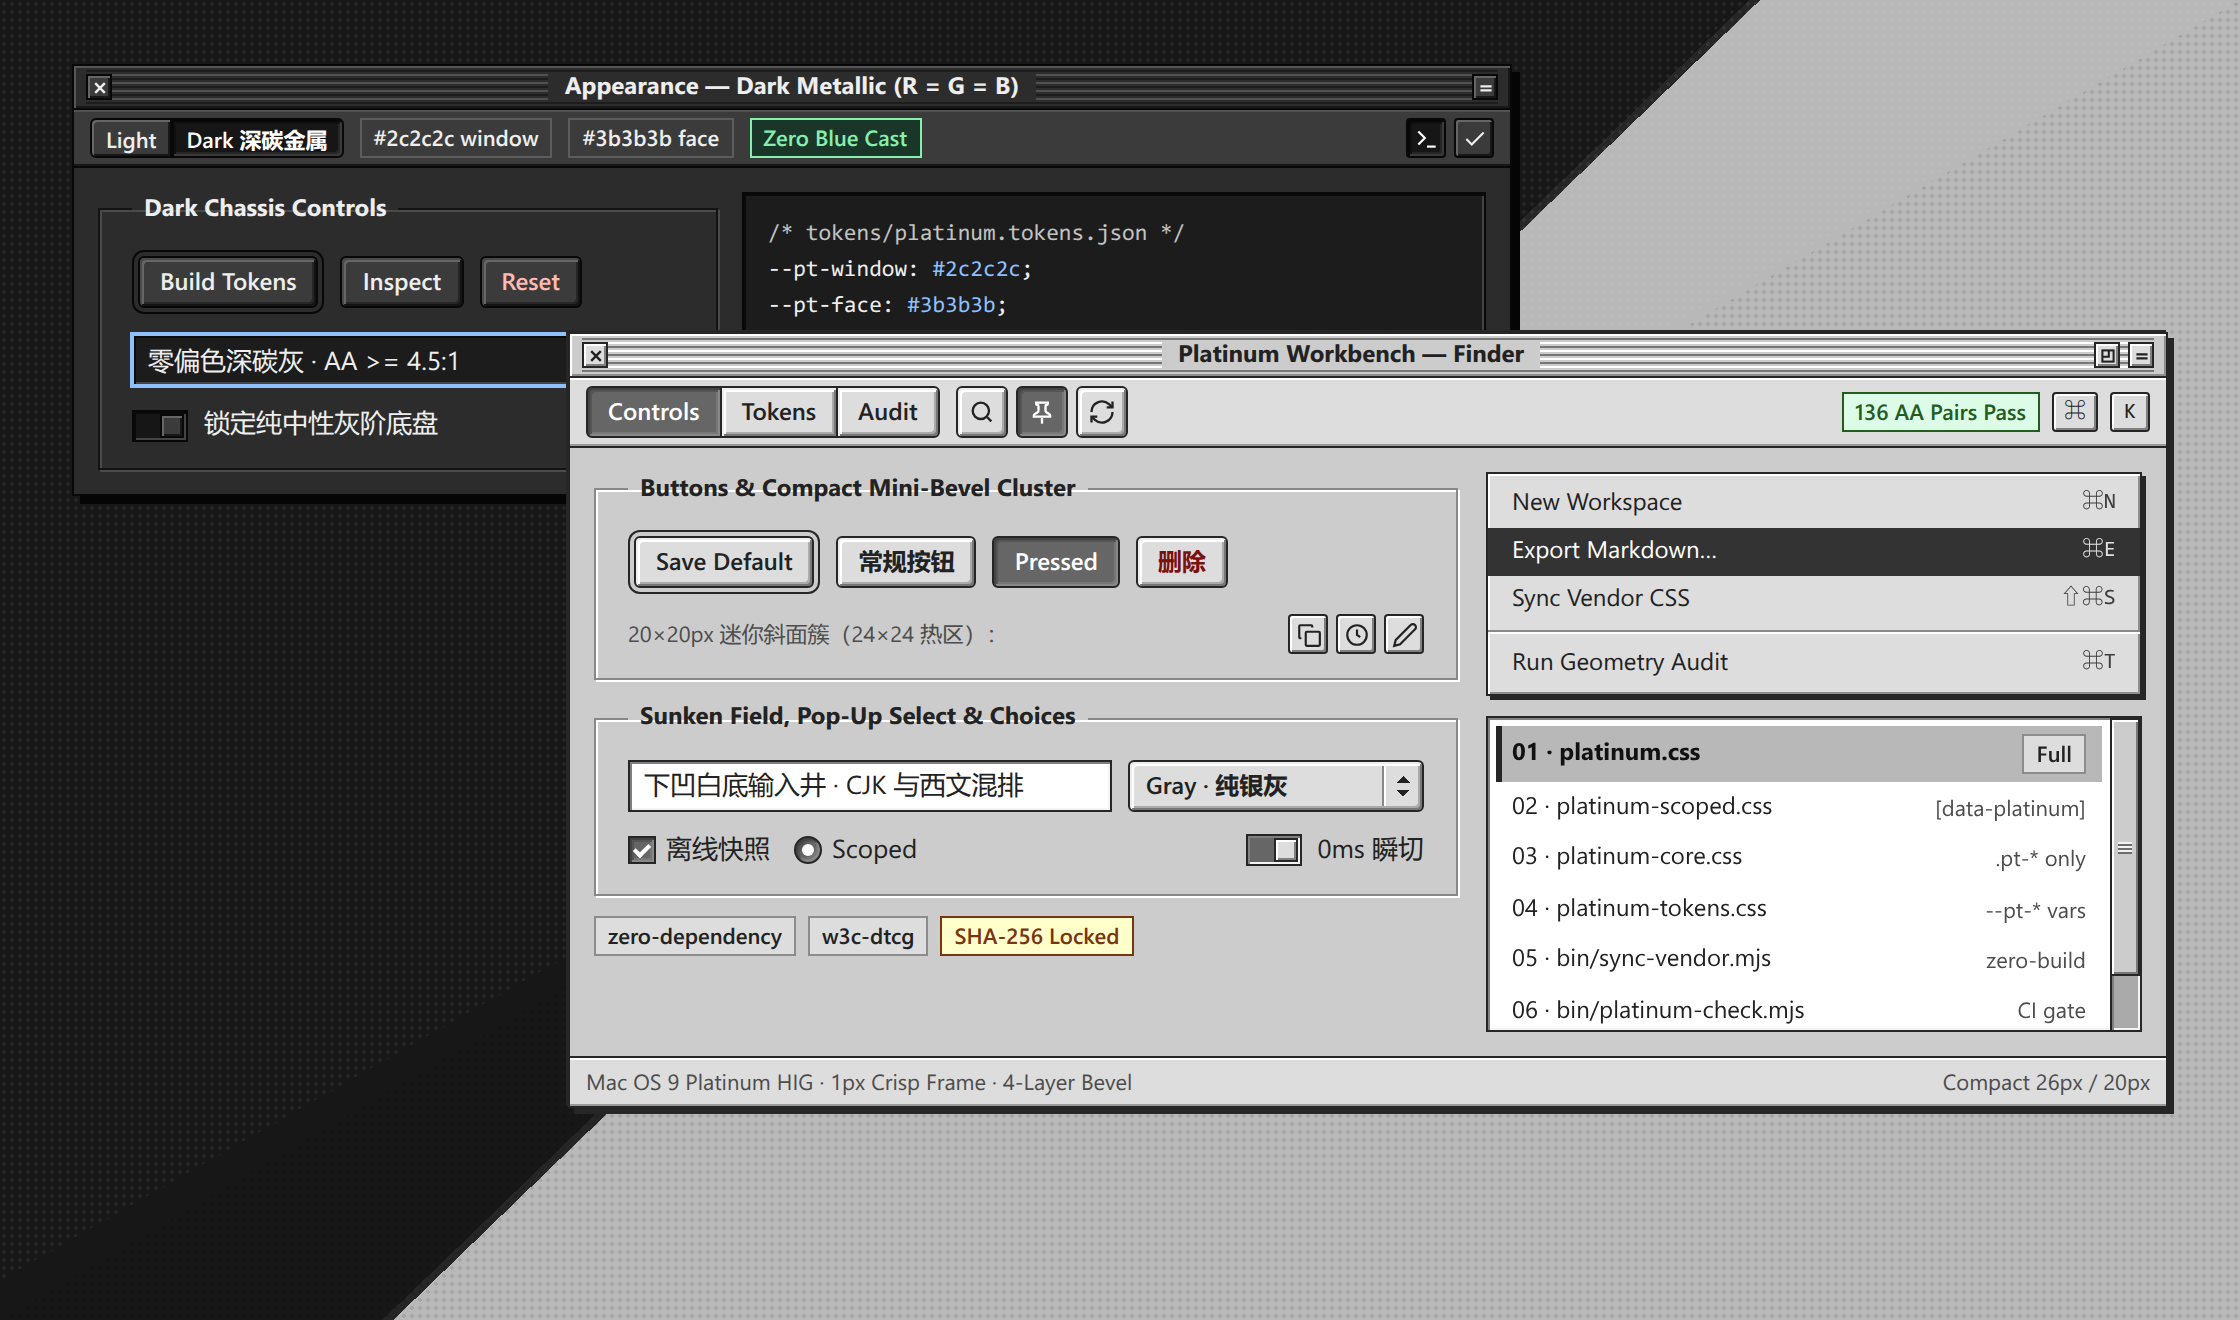
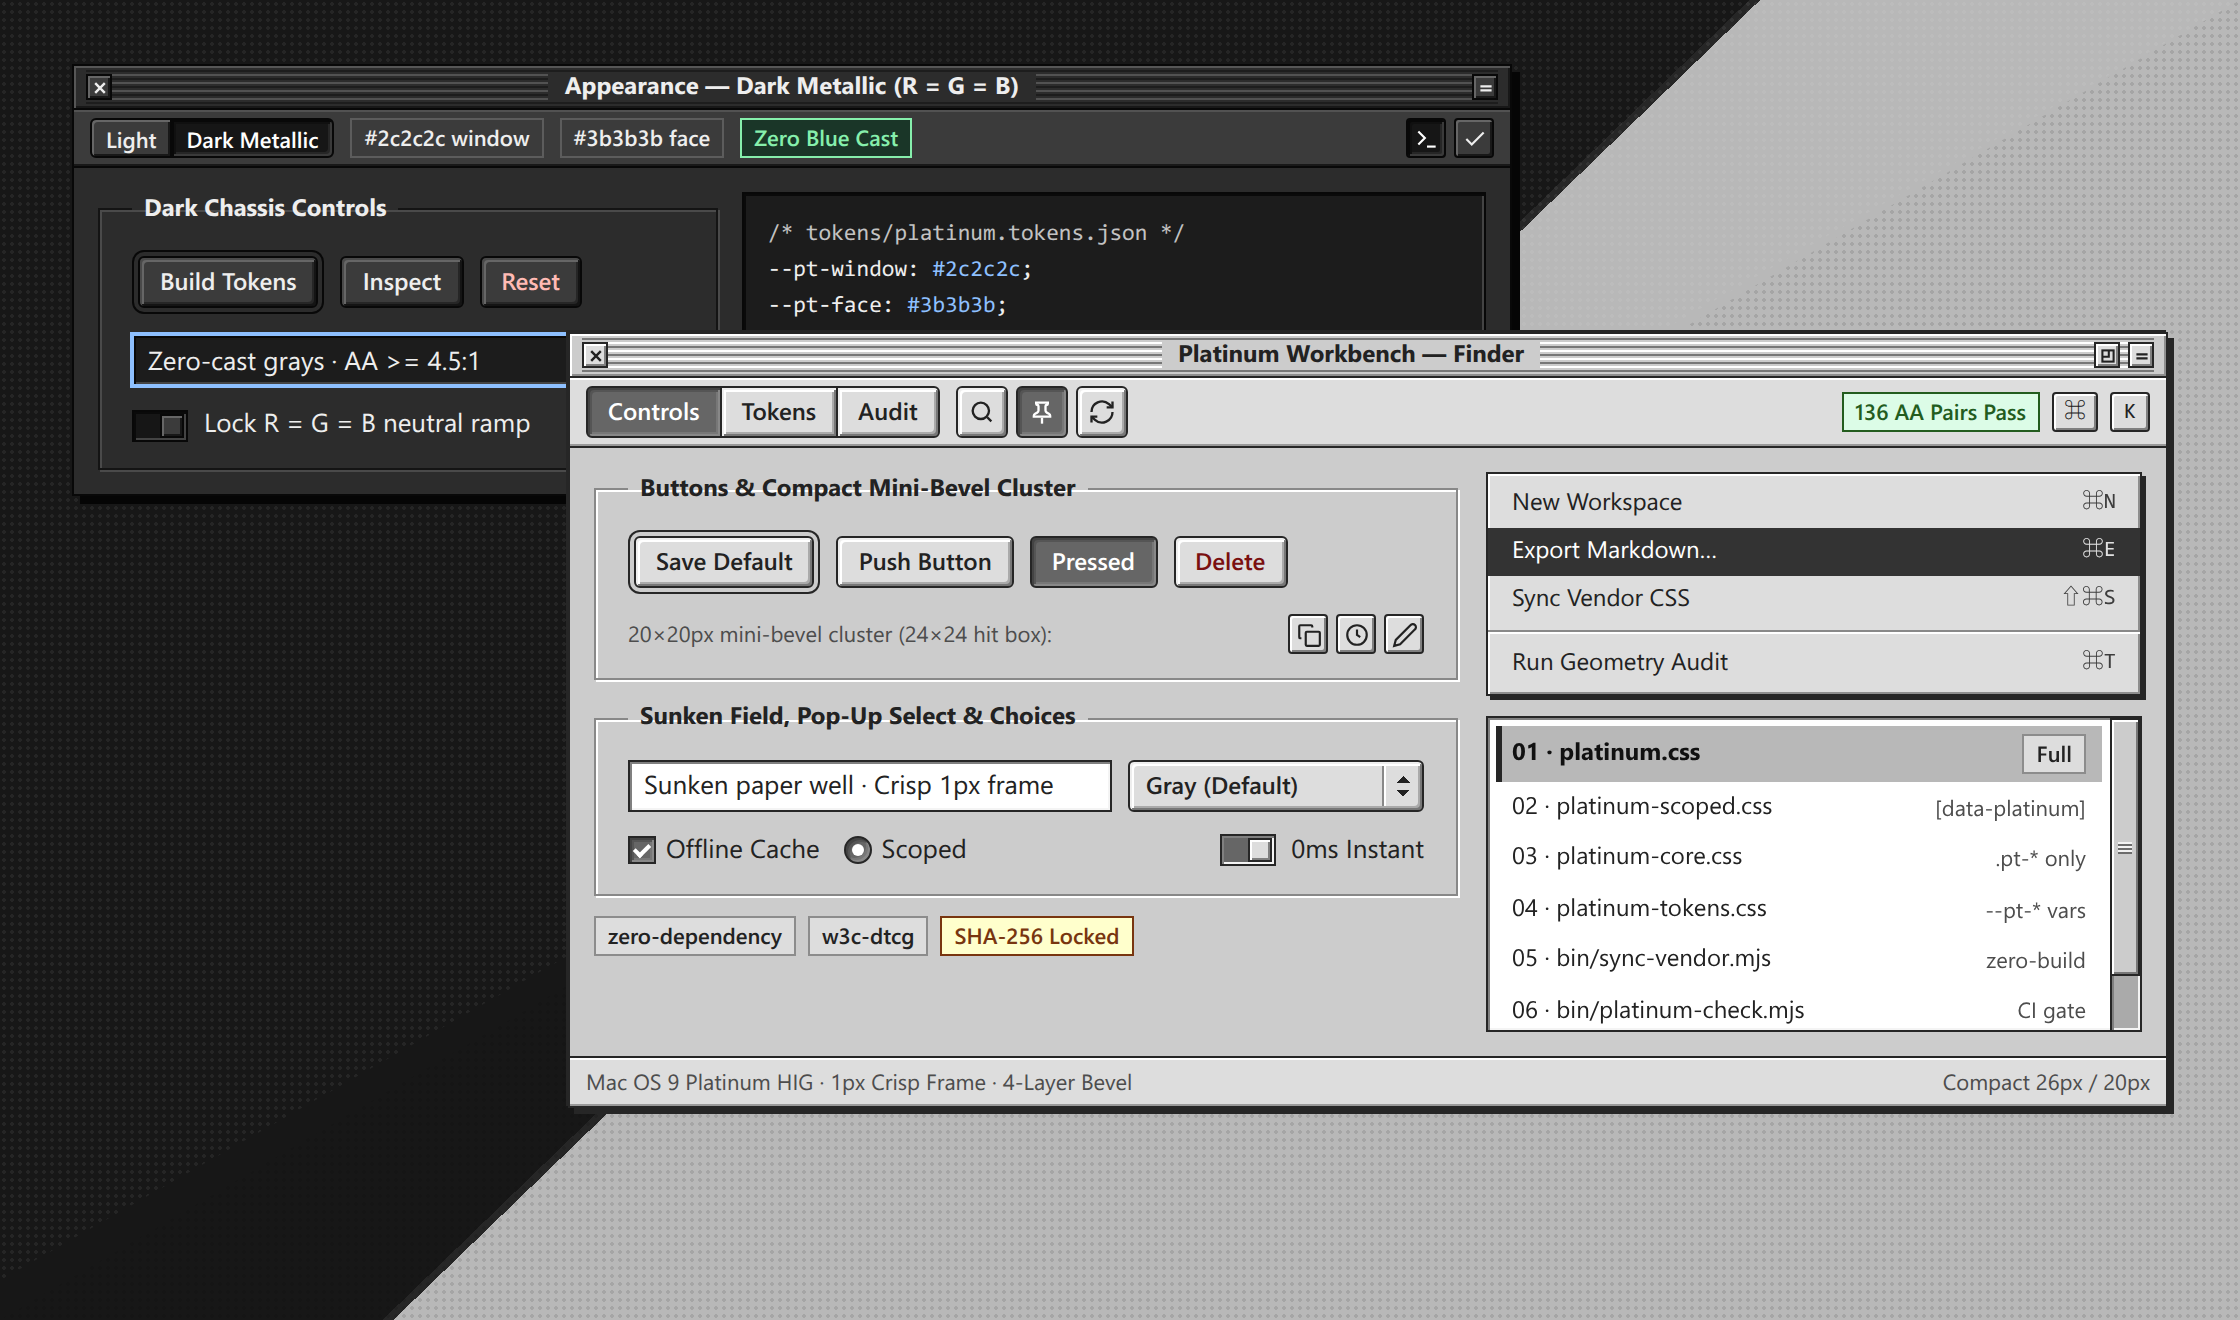
docs: make English README default and add localized zh-CN docs and shots

diff --git a/README.md b/README.md
@@ -1,76 +1,82 @@
 # Platinum UI
 
-原汁原味的 **Mac OS 9 Platinum** 跨项目设计系统：包含 W3C DTCG 设计令牌、零框架 JS 的模块化纯 CSS 部件库、交互式静态预览画廊、可复用的静态/Chromium 几何与对比度体检门禁，以及配套的全局 AI Agent Skill。
+**English** | [简体中文](README.zh-CN.md)
 
-![Platinum UI 浅色铂金银与深色零偏色碳黑金属桌面工作台实测渲染](docs/screenshots/hero.webp)
+A cross-project **Mac OS 9 Platinum** design system: W3C DTCG design tokens, zero-framework-JS modular CSS widgets, an interactive HTML gallery, reusable static and Chromium geometry/contrast gates, and a companion global AI Agent Skill.
 
-## 特性概览
+![Platinum UI light silver and zero-cast dark metallic desktop workbench rendered from dist/platinum.css](docs/screenshots/hero.webp)
 
-- **纯正 Platinum 机械质感**：`1px` 利落黑框、`2px` 硬边投影、四层金属凹凸斜面、`2px` 水平细横纹标题条、`15px` 三横脊滚动条、HIG 双箭头弹出选择框、蚀刻凹槽分组框与 `0ms` 机械瞬切。
-- **零偏色双模底盘 + 双官方变体**：浅色铂金银（`#cccccc`/`#dddddd`）与深色零偏色碳黑金属（`R=G=B`），默认采用无紫耐看的 **`gray`** 变体（纯银灰 + 深石板蓝焦点），一行属性 `data-platinum-accent="lavender"` 即可切换经典 **`lavender`** 薰衣草变体；全象限通过 WCAG AA `>= 4.5:1` 校验。
+## Highlights
 
-![Gray 默认纯银灰变体与 Lavender 经典薰衣草变体在选区、菜单、滚动条及中性按钮上的微距对照](docs/screenshots/variants.webp)
+- **Authentic Platinum mechanics**: Crisp `1px` borders, `2px` hard drop shadows, four-layer metallic bevels, `2px` horizontal pinstripe titlebars, `15px` three-ridge scrollbars, Mac OS 9 HIG double-arrow pop-up selects, etched groove group boxes, and instant `0ms` state transitions.
+- **Zero-cast light/dark chassis and two official accent variants**: Light silver (`#cccccc`/`#dddddd`) and dark metallic grays keep strict `R=G=B` neutrality. Ships with a purple-free **`gray`** default variant (silver scrollbars, charcoal menu highlights, and slate blue focus/links) and an opt-in classic **`lavender`** variant via `data-platinum-accent="lavender"`. Every foreground/surface pair passes WCAG AA `>= 4.5:1` across all four quadrants.
 
-- **紧凑/舒适双密度与高密度长文排版**：默认 `compact`（标准控件 `26px`、次级迷你斜面图标钮 `20px` + `::before` `24×24px` 隐形热区），可选 `data-platinum-density="comfortable"`（`32px` / `24px`）；内置 `.pt-prose`、`.pt-code-window` 与 `1px` 实框表格排版。
-- **双通道零痛点接入**：打包器项目（Electron / Vite / React / TS）直接按包导出引入；零构建项目（原生 Chrome MV3 扩展 / 静态 HTML）通过 `platinum-sync` 一键同步单文件 CSS 并写入版本与 SHA-256 防漂移锁头。
+![Side-by-side comparison of the default Gray variant and opt-in Lavender variant across selection, menus, scrollbars, and neutral buttons](docs/screenshots/variants.webp)
 
-![SimpleText 技术长文代码小窗与 Compact / Comfortable 双密度阶梯及窗口失焦态对照](docs/screenshots/prose-and-density.webp)
+- **Compact and comfortable densities, plus technical prose**: Defaults to `compact` (`26px` primary controls and `20px` mini-bevel icon buttons with `::before` `24×24px` hit areas), with opt-in `data-platinum-density="comfortable"` (`32px` / `24px`). Includes `.pt-prose`, `.pt-code-window`, and `1px` hard-bordered tables.
+- **Dual consumption channels**: Bundler projects (Electron, Vite, React, TypeScript) import CSS entrypoints via package exports; zero-build projects (MV3 Chrome extensions, static HTML) run `platinum-sync` to copy a single-file CSS bundle stamped with a version and SHA-256 drift check header.
 
-## 快速开始
+![SimpleText technical prose and code window alongside Compact, Comfortable, and inactive window states](docs/screenshots/prose-and-density.webp)
 
-### 通道 A：带打包器项目（Vite / Webpack / Electron）
+## Quick Start
 
-在 `package.json` 引用本仓库后按需引入对应入口：
+### Channel A: Bundler Projects (Vite / Webpack / Electron)
+
+Reference this package in `package.json` and import the bundle that matches your app:
 
 ```js
-// 1. 全应用独占 Platinum（含裸 <button>/<input>/<select>/<fieldset> 自动样式 + .pt-* + .pt-prose）
+// 1. Full Platinum app (styles bare <button>/<input>/<select>/<fieldset> + .pt-* + .pt-prose)
 import "platinum-ui/platinum.css";
 
-// 2. 多主题并存或局部容器隔离（仅在 [data-platinum] 内生效，不污染全局 :root）
+// 2. Multi-theme or container-isolated mode (applies only inside [data-platinum], leaving :root untouched)
 import "platinum-ui/scoped.css";
 
-// 3. 仅使用显式 .pt-* 原语类（不动任何裸 HTML 标签）
+// 3. Explicit .pt-* primitives only (leaves bare HTML elements untouched)
 import "platinum-ui/core.css";
 ```
 
-### 通道 B：零构建项目（Chrome 扩展 / 纯静态 HTML）
+### Channel B: Zero-Build Projects (Chrome Extensions / Static HTML)
 
 ```bash
-# 同步单文件 CSS 到目标目录（自动附带版本与 SHA-256 锁头）
+# Copy a single-file CSS bundle into your project with a version + SHA-256 header lock
 node bin/sync-vendor.mjs --target /path/to/your-app/vendor --bundle scoped
 
-# 在目标项目的 CI / pre-commit 中校验未被手改且版本一致
+# Verify in CI or pre-commit that the synced file matches upstream without hand-edits
 node bin/sync-vendor.mjs --target /path/to/your-app/vendor --bundle scoped --check
 ```
 
-## 本地预览与质量门禁
+## Local Preview and Quality Gates
 
-直接用浏览器打开 `gallery/index.html` 即可实时切换明暗模式、`Gray` / `Lavender` 变体、紧凑 / 舒适密度与窗口失焦状态。
+Open `gallery/index.html` in a browser to switch live between light and dark modes, `Gray` and `Lavender` variants, compact and comfortable densities, and active/inactive window states.
 
 ```bash
-npm run build                        # 从 tokens/platinum.tokens.json + src/*.css 编译 dist/*.css
-npm run verify                       # 跑构建零漂移检查 + 全象限 AA 对比度 + CSS 静态防坑门 + 单元测试
-npm run shots                        # 用 Chromium 2x 无损重生成 docs/screenshots/*.webp 实测舞台图
-node bin/platinum-check.mjs --browser               # 启动 Chromium 对画廊跑 8 象限真实图标居中与热区探针
-node bin/platinum-check.mjs --css app.css --forbid-purple   # 对外部业务 CSS 跑 Platinum 静态防坑与禁紫体检
+npm run build                        # Compile dist/*.css from tokens/platinum.tokens.json + src/*.css
+npm run verify                       # Run zero-drift build check + 4-quadrant AA + static CSS gates + unit tests
+npm run shots                        # Regenerate 2x lossless docs/screenshots/*.webp stage renders via Chromium
+node bin/platinum-check.mjs --browser               # Launch Chromium to run 8-state icon centering and hit-area probes
+node bin/platinum-check.mjs --css app.css --forbid-purple   # Audit external app CSS for Platinum traps and purple leaks
 ```
 
-## 安装全局 AI Agent Skill
+## Global AI Agent Skill
 
 ```bash
 npx skills add ./skills/platinum-ui -g -y
 ```
 
-安装后在任意新项目中对 Claude Code / Codex / Antigravity 说明「使用 `platinum-ui` 规范」，AI 将自动按目标项目技术栈接入对应 CSS 通道并执行几何与对比度验收。
+Once installed, ask Claude Code, Codex, or Antigravity to apply the `platinum-ui` specification in any project; the agent selects the matching CSS channel for your stack and runs the geometry and contrast gates.
 
-## 目录结构
+## Repository Layout
 
-- `tokens/platinum.tokens.json` — W3C DTCG 令牌唯一真源
-- `src/{core,elements,prose}.css` — 模块化源码层
-- `dist/` — 零依赖编译产物（勿手改）
-- `gallery/index.html` — 静态全组件对照画廊
-- `scripts/readme-shots.mjs` — `README.md` 2× 无损实测舞台截图生成脚本（产物位于 `docs/screenshots/`）
-- `bin/{build,sync-vendor,platinum-check}.mjs` — 构建、零构建同步与自动体检 CLI
-- `skills/platinum-ui/SKILL.md` — 跨 Agent 通用技能定义
-- `skills/platinum-ui/references/` — Electron 无边框窗口/顶层菜单、16px 像素应用图标与实战反模式参考手册
-- `DESIGN.md` — 完整视觉与工程规范说明书
+- `tokens/platinum.tokens.json` — Single source of truth for W3C DTCG tokens
+- `src/{core,elements,prose}.css` — Modular CSS source layers
+- `dist/` — Zero-dependency compiled CSS bundles (do not edit by hand)
+- `gallery/index.html` — Interactive static component gallery
+- `scripts/readme-shots.mjs` — `2×` lossless stage screenshot generator (`docs/screenshots/`)
+- `bin/{build,sync-vendor,platinum-check}.mjs` — Build, zero-build vendor sync, and automated audit CLIs
+- `skills/platinum-ui/SKILL.md` — Cross-agent skill definition
+- `skills/platinum-ui/references/` — Reference guides for Electron frameless windows/popup menus, `16px` pixel app icons, and CSS anti-patterns
+- `DESIGN.md` — Complete visual and engineering specification
+
+## License
+
+MIT. See [LICENSE](LICENSE).

diff --git a/README.zh-CN.md b/README.zh-CN.md
@@ -1,0 +1,82 @@
+# Platinum UI
+
+[English](README.md) | **简体中文**
+
+原汁原味的 **Mac OS 9 Platinum** 跨项目设计系统：包含 W3C DTCG 设计令牌、零框架 JS 的模块化纯 CSS 部件库、交互式静态预览画廊、可复用的静态/Chromium 几何与对比度体检门禁，以及配套的全局 AI Agent Skill。
+
+![Platinum UI 浅色铂金银与深色零偏色碳黑金属桌面工作台实测渲染](docs/screenshots/hero.zh-CN.webp)
+
+## 特性概览
+
+- **纯正 Platinum 机械质感**：`1px` 利落黑框、`2px` 硬边投影、四层金属凹凸斜面、`2px` 水平细横纹标题条、`15px` 三横脊滚动条、HIG 双箭头弹出选择框、蚀刻凹槽分组框与 `0ms` 机械瞬切。
+- **零偏色双模底盘 + 双官方变体**：浅色铂金银（`#cccccc`/`#dddddd`）与深色零偏色碳黑金属（`R=G=B`），默认采用无紫的 **`gray`** 变体（纯银灰滚动条、深炭反白菜单与深石板蓝焦点/链接），一行属性 `data-platinum-accent="lavender"` 即可切换经典 **`lavender`** 薰衣草变体；全象限前景与底面组合均通过 WCAG AA `>= 4.5:1` 校验。
+
+![Gray 默认纯银灰变体与 Lavender 经典薰衣草变体在选区、菜单、滚动条及中性按钮上的微距对照](docs/screenshots/variants.zh-CN.webp)
+
+- **紧凑/舒适双密度与高密度长文排版**：默认 `compact`（标准控件 `26px`、次级迷你斜面图标钮 `20px` + `::before` `24×24px` 隐形热区），可选 `data-platinum-density="comfortable"`（`32px` / `24px`）；内置 `.pt-prose`、`.pt-code-window` 与 `1px` 实框表格排版。
+- **双通道接入**：打包器项目（Electron / Vite / React / TypeScript）直接按包导出引入；零构建项目（原生 Chrome MV3 扩展 / 静态 HTML）通过 `platinum-sync` 同步单文件 CSS，自动写入版本与 SHA-256 防漂移锁头。
+
+![SimpleText 技术长文代码小窗与 Compact / Comfortable 双密度阶梯及窗口失焦态对照](docs/screenshots/prose-and-density.zh-CN.webp)
+
+## 快速开始
+
+### 通道 A：带打包器项目（Vite / Webpack / Electron）
+
+在 `package.json` 引用本仓库后按需引入对应入口：
+
+```js
+// 1. 全应用独占 Platinum（含裸 <button>/<input>/<select>/<fieldset> 自动样式 + .pt-* + .pt-prose）
+import "platinum-ui/platinum.css";
+
+// 2. 多主题并存或局部容器隔离（仅在 [data-platinum] 内生效，不污染全局 :root）
+import "platinum-ui/scoped.css";
+
+// 3. 仅使用显式 .pt-* 原语类（不动任何裸 HTML 标签）
+import "platinum-ui/core.css";
+```
+
+### 通道 B：零构建项目（Chrome 扩展 / 纯静态 HTML）
+
+```bash
+# 同步单文件 CSS 到目标目录（自动附带版本与 SHA-256 锁头）
+node bin/sync-vendor.mjs --target /path/to/your-app/vendor --bundle scoped
+
+# 在目标项目的 CI / pre-commit 中校验未被手改且版本一致
+node bin/sync-vendor.mjs --target /path/to/your-app/vendor --bundle scoped --check
+```
+
+## 本地预览与质量门禁
+
+直接用浏览器打开 `gallery/index.html` 即可实时切换明暗模式、`Gray` / `Lavender` 变体、紧凑 / 舒适密度与窗口失焦状态。
+
+```bash
+npm run build                        # 从 tokens/platinum.tokens.json + src/*.css 编译 dist/*.css
+npm run verify                       # 跑构建零漂移检查 + 全象限 AA 对比度 + CSS 静态防坑门 + 单元测试
+npm run shots                        # 用 Chromium 2x 无损重生成中英双语 docs/screenshots/*.webp 实测舞台图
+node bin/platinum-check.mjs --browser               # 启动 Chromium 对画廊跑 8 象限真实图标居中与热区探针
+node bin/platinum-check.mjs --css app.css --forbid-purple   # 对外部业务 CSS 跑 Platinum 静态防坑与禁紫体检
+```
+
+## 安装全局 AI Agent Skill
+
+```bash
+npx skills add ./skills/platinum-ui -g -y
+```
+
+安装后在任意新项目中对 Claude Code、Codex 或 Antigravity 说明「使用 `platinum-ui` 规范」，代理会按目标项目技术栈接入对应 CSS 通道并执行几何与对比度验收。
+
+## 目录结构
+
+- `tokens/platinum.tokens.json`：W3C DTCG 令牌唯一真源
+- `src/{core,elements,prose}.css`：模块化源码层
+- `dist/`：零依赖编译产物（勿手改）
+- `gallery/index.html`：静态全组件对照画廊
+- `scripts/readme-shots.mjs`：`2×` 无损实测舞台截图生成脚本（产物位于 `docs/screenshots/`）
+- `bin/{build,sync-vendor,platinum-check}.mjs`：构建、零构建同步与自动体检 CLI
+- `skills/platinum-ui/SKILL.md`：跨 Agent 通用技能定义
+- `skills/platinum-ui/references/`：Electron 无边框窗口/顶层菜单、`16px` 像素应用图标与实战反模式参考手册
+- `DESIGN.md`：完整视觉与工程规范说明书
+
+## 许可证
+
+MIT，详见 [LICENSE](LICENSE)。
